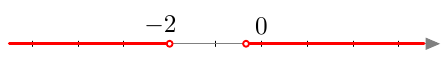
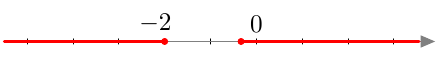
Lisää

Changed region(s): [[0.0, 0.4557, 1.0, 0.6329], [0.3257, 0.1519, 0.4146, 0.4051], [0.5626, 0.1772, 0.6219, 0.4557]]

diff --git a/kurssit/maa5/luku4/index.html b/kurssit/maa5/luku4/index.html
@@ -690,9 +690,10 @@ topnav: maa5
             <p>
                 Epäyhtälö $\left|2x - 3 \right| < 4$ toteutuu, jos ja vain jos kumpikin näistä epäyhtälöistä toteutuu eli
                 $$-\frac{1}{2} < x \quad \textbf{ ja } \quad x < \frac{7}{2}.$$
+                <img src="/kurssit/maa5/kuvat/k049.png" max-width: 100%; width: auto; height: auto;/>
                 Epäyhtälön $\left|2x - 3 \right| < 4$ ratkaisujoukko on siis lukusuoran väli 
                 $$\left] -\frac{1}{2}, \frac{7}{2}\right[.$$
-                <img src="/kurssit/maa5/kuvat/k049.png" max-width: 100%; width: auto; height: auto;/>
+                Tässä hakasulkujen suunnasta näkyy, että välin päätepisteet eivät kuulu ratkaisujoukkoon.
             </p>
 
             <div class="tehtavat">
@@ -724,38 +725,41 @@ topnav: maa5
             </div>
 
             <p>
-                Kun ratkaistaan itseisarvoepäyhtälöä, täytyy heti alussa ottaa huomioon, onko epäyhtälössä pienempi kuin -merkki vai suurempi kuin -merkki. Edellisessä esimerkissä ja tehtävässä tarkasteltiin itseisarvoepäyhtälöitä, joissa esiintyi pienempi kuin -merkki. Siirrytään nyt tutkimaan tapausta, jossa epäyhtälössä esiintyy suurempi kuin -merkki.
+                Kun ratkaistaan itseisarvoepäyhtälöä, täytyy heti alussa ottaa huomioon, onko epäyhtälössä pienempi kuin -merkki vai suurempi kuin -merkki. Edellisessä esimerkissä ja tehtävässä tarkasteltiin itseisarvoepäyhtälöitä, joissa esiintyi pienempi kuin -merkki. Siirrytään nyt tutkimaan tapausta, jossa epäyhtälössä esiintyy suurempi kuin -merkki. Tarkalleen ottaen seuraavassa epäyhtälössä esiintyy suurempi tai yhtä suuri kuin -merkki, mutta tämä ei vaikuta asiaan.
             </p>
             <p>
                 Tarkastellaan epäyhtälöä
-                $$\left|6x + 7 \right| > 5.$$ 
-                Se toteutuu, jos ja vain jos lausekkeen $6x + 7$ arvo on pienempi kuin $-5$ tai suurempi kuin $5$: 
-                $$6x + 7 < -5 \quad \textbf{ tai } \quad 6x + 7 > 5.$$ 
+                $$\left|6x + 7 \right| \geq 5.$$ 
+                Se toteutuu, jos ja vain jos lausekkeen $6x + 7$ arvo on enintään $-5$ tai vähintään $5$: 
+                $$6x + 7 \leq -5 \quad \textbf{ tai } \quad 6x + 7 \geq 5.$$ 
                 Ratkaistaan kumpikin epäyhtälö:
             </p>
                 <ol>
                     <li> epäyhtälö:
                         \begin{align*}
-                            6x + 7 &< -5 \\
-                            6x &< -12 \\
-                            x &< -2
+                            6x + 7 &\leq -5 \\
+                            6x &\leq -12 \\
+                            x &\leq -2
                         \end{align*}
+                        <img src="/kurssit/maa5/kuvat/k054.png" max-width: 100%; width: auto; height: auto;/>
                     </li>
                     <li> 
                         epäyhtälö:
                         \begin{align*}
-                            6x + 7 &> 5 \\
-                            6x &> -2 \\
-                            x &> -\frac{1}{3}
+                            6x + 7 &\geq 5 \\
+                            6x &\geq -2 \\
+                            x &\geq -\frac{1}{3}
                         \end{align*}
+                        <img src="/kurssit/maa5/kuvat/k055.png" max-width: 100%; width: auto; height: auto;/>
                     </li>
                 </ol>
             <p>
-                Epäyhtälö $\left|6x + 7 \right| > 5$ siis toteutuu, jos ja vain jos 
-                $$x < -2  \quad \textbf{ tai } \quad x > -\frac{1}{3}.$$
-                Ratkaisujoukko on kaksiosainen: 
-                $$\left] -\infty, -2\right[ \cup \left]-\frac{1}{3}, \infty\right[.$$
+                Epäyhtälö $\left|6x + 7 \right| \geq 5$ siis toteutuu, jos ja vain jos 
+                $$x \leq -2  \quad \textbf{ tai } \quad x \geq -\frac{1}{3}.$$
                 <img src="/kurssit/maa5/kuvat/k050.png" max-width: 100%; width: auto; height: auto;/>
+                Kaksiosainen ratkaisujoukko voidaan merkitä seuraavasti: 
+                $$\left] -\infty, -2\right] \cup \left[-\frac{1}{3}, \infty\right[.$$
+                Tässä hakasulkujen suunnasta näkyy, että päätepisteet $-2$ ja $-\frac{1}{3}$ kuuluvat ratkaisujoukkoon.
             </p>
 
             <div class="tehtavat">
